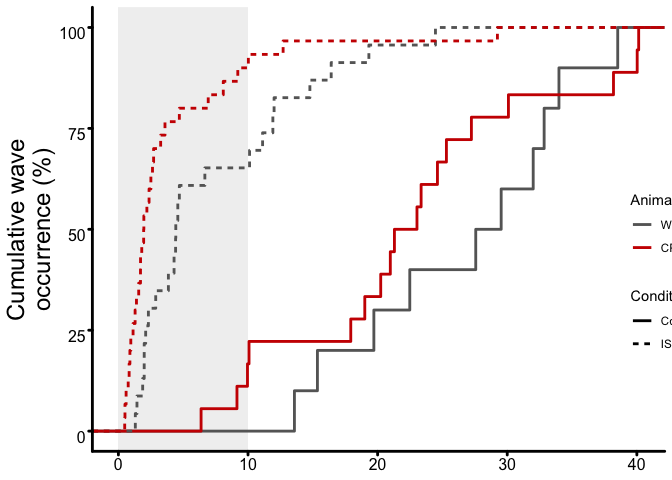
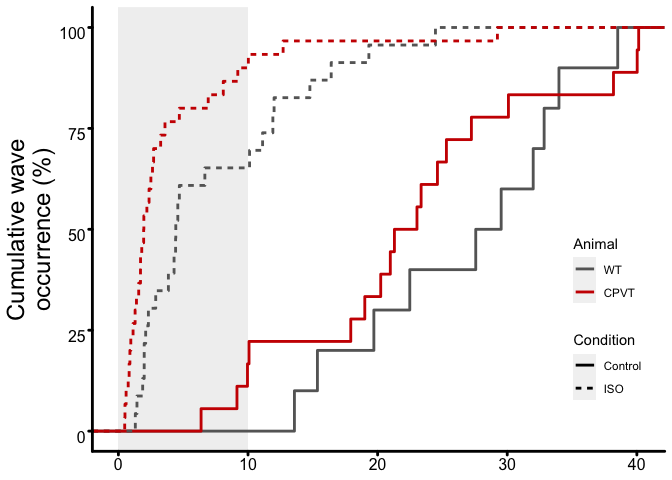
incresed size of no visible legend segments in plot

diff --git a/README.md b/README.md
@@ -35,4 +35,4 @@ df40_o %>%
 #> $cum_occu_plot
 ```
 
-<img src="man/figures/README-example-1.png" width="100%" />
+<img src="man/figures/README-example-1.png" width="600px" />
